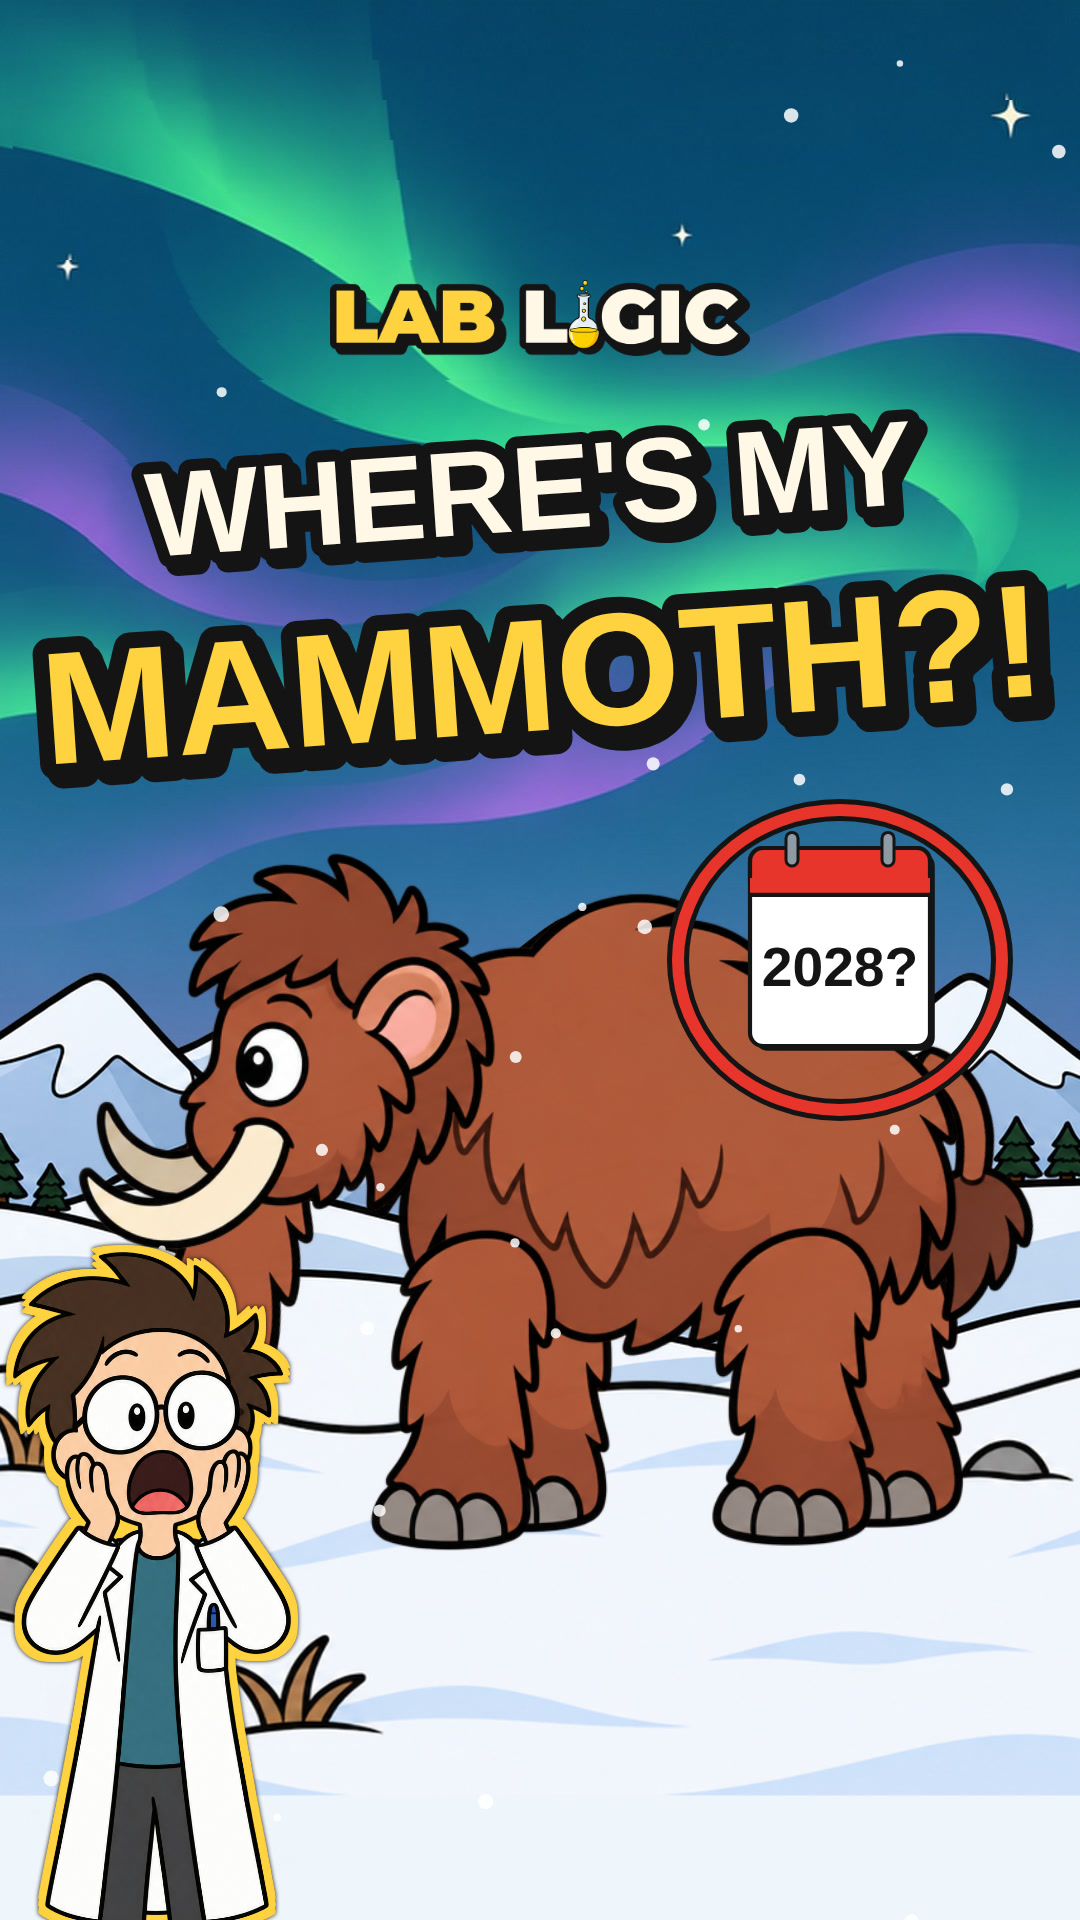
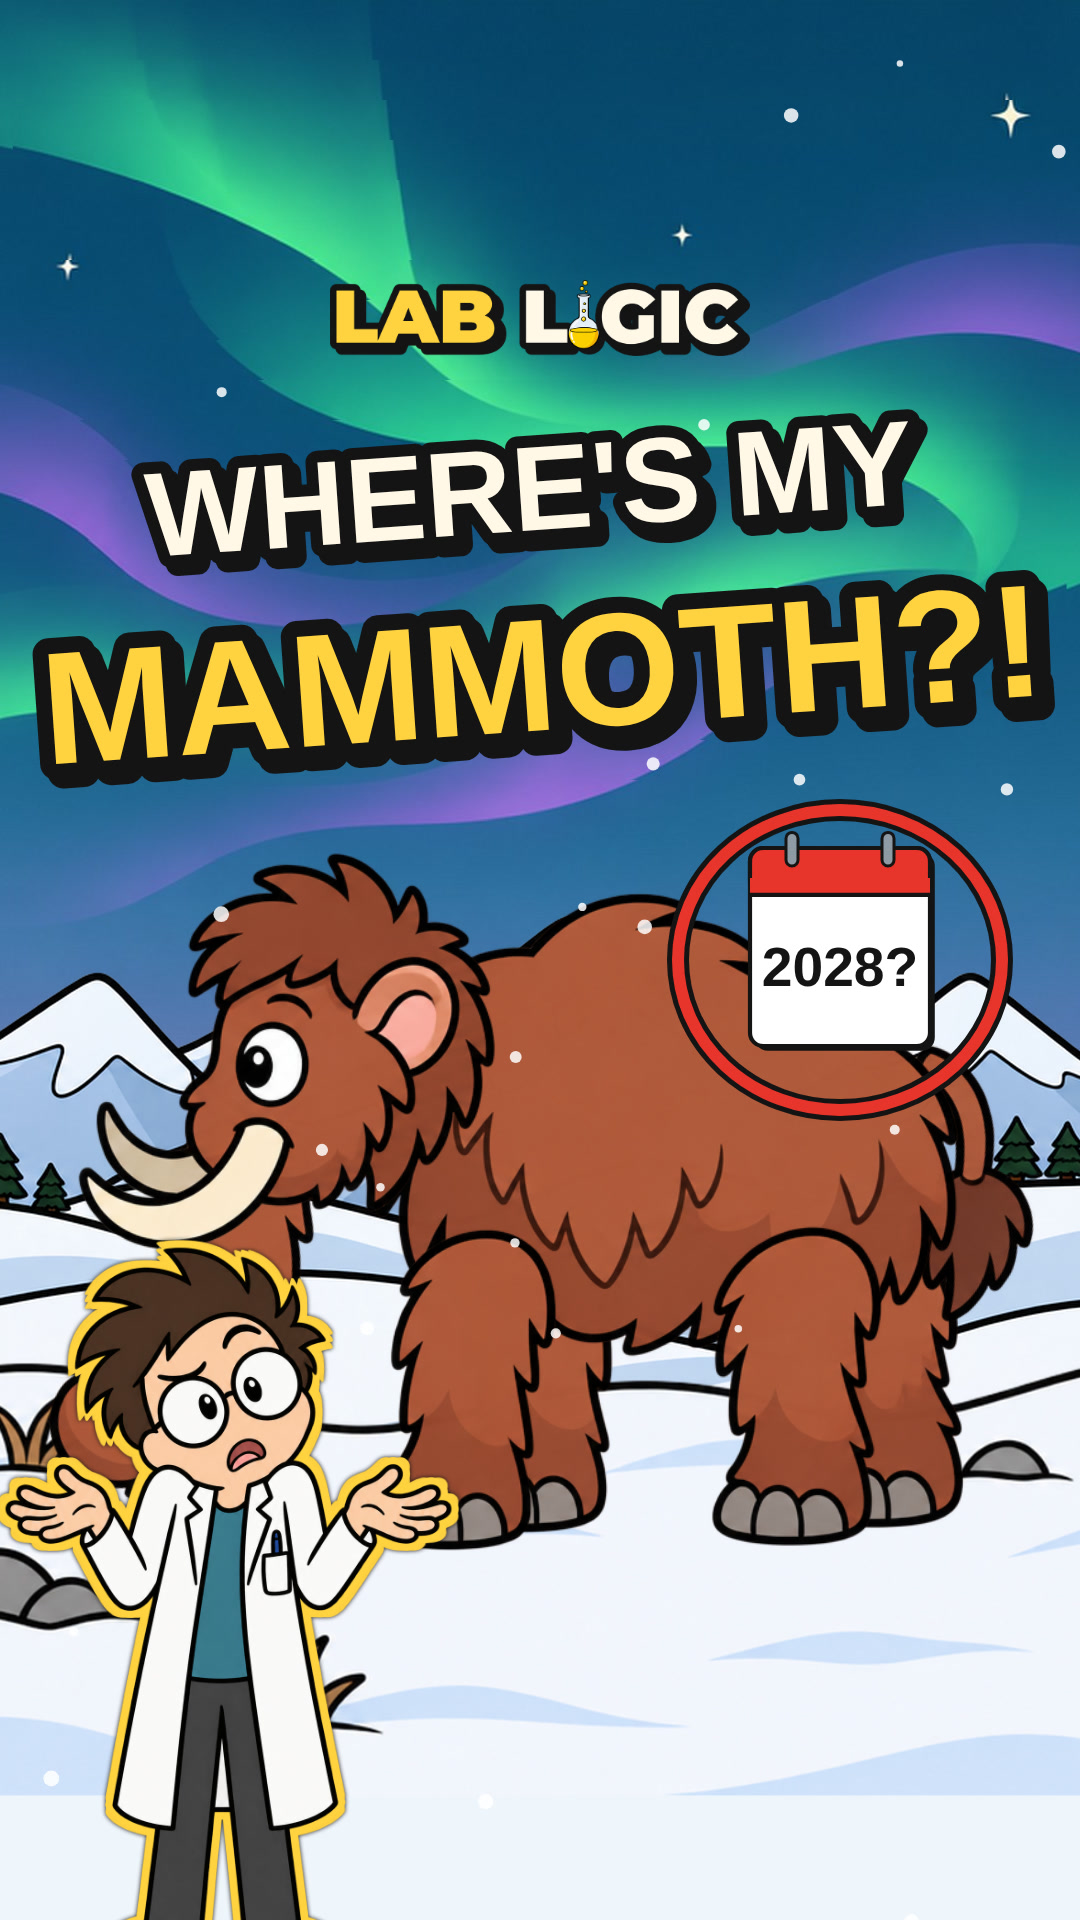
New scientist pose 'shrug' (asking) for the mammoth cover; merge-safe single-pose prep script
Claude-Session: https://claude.ai/code/session_015xk9XDSoC2XGKGSmzAa8PH

Changed region(s): [[0.0, 0.625, 0.4278, 1.0]]

diff --git a/video/src/iceberg/Sci.tsx b/video/src/iceberg/Sci.tsx
@@ -9,7 +9,7 @@ export const skinSprite = (pose: string, skin: Skin = 'default') =>
   skin === 'hawaii' && SPRITES_HAWAII[pose] ? {sp: SPRITES_HAWAII[pose], src: `sci_hawaii/${pose}.png`} : {sp: SPRITES[pose], src: `iceberg/sci/${pose}.png`};
 import {clamp} from './anim';
 
-export type Pose = 'rope' | 'point' | 'think' | 'thumbs' | 'shocked' | 'nervous' | 'bucket' | 'facepalm' | 'throw' | 'present' | 'calc' | 'hot' | 'dizzy' | 'glass' | 'thirsty' | 'cash';
+export type Pose = 'rope' | 'point' | 'think' | 'thumbs' | 'shocked' | 'nervous' | 'bucket' | 'facepalm' | 'throw' | 'present' | 'calc' | 'hot' | 'dizzy' | 'glass' | 'thirsty' | 'cash' | 'shrug';
 
 // The scientist: a cut-out picture per pose. Swaps happen on the narrowest frame of a quick squash
 // (never a cross-fade). x/y = feet in scene coordinates; headR = on-screen head radius.

diff --git a/video/src/mammoth/Main.tsx b/video/src/mammoth/Main.tsx
@@ -264,7 +264,7 @@ export const MammothCover: React.FC = () => (
       <RedCircle x={840} y={960} r={150} />
       <Snow t={1.2} n={30} />
     </svg>
-    <BigSci pose="shocked" x={150} y={1400} headR={105} />
+    <BigSci pose="shrug" x={210} y={1380} headR={100} />
     <svg width={W} height={H} viewBox={`0 0 ${W} ${H}`} style={{position: 'absolute'}}>
       <g transform="rotate(-4 540 640)" data-skip="cover headline">
         <BigText x={540} y={530} text="WHERE'S MY" size={120} />

diff --git a/video/src/iceberg/sprites.ts b/video/src/iceberg/sprites.ts
@@ -175,5 +175,16 @@ export const SPRITES: Record<string, Sprite> = {
     "headR": 179.96437072753906,
     "footX": 507.3,
     "footY": 1588.0
+  },
+  "shrug": {
+    "handX": 981,
+    "handY": 576,
+    "w": 992,
+    "h": 1600,
+    "headX": 456,
+    "headY": 298,
+    "headR": 217.99038696289062,
+    "footX": 485.7,
+    "footY": 1588.0
   }
 };

diff --git a/video/scripts/prep_add_pose.py b/video/scripts/prep_add_pose.py
@@ -1,0 +1,36 @@
+# Add (or replace) ONE scientist pose without touching the others.
+# usage: python3 scripts/prep_add_pose.py <pose> <raw.png>
+# Trims, scales to 1600 px tall, measures head/feet/hand like prep.py, saves public/iceberg/sci/<pose>.png and MERGES
+# the metrics into src/iceberg/sprites.ts (prep.py rewrites the whole file - never use it for a single new pose).
+import sys, json, re, numpy as np, cv2
+from PIL import Image
+ROOT = '/home/user/LAbLogic/video/'
+name, path = sys.argv[1], sys.argv[2]
+im = Image.open(path).convert('RGBA')
+a = np.array(im)[..., 3]
+ys, xs = np.where(a > 20)
+im = im.crop((max(xs.min() - 12, 0), max(ys.min() - 12, 0), min(xs.max() + 13, a.shape[1]), min(ys.max() + 13, a.shape[0])))
+if im.height > 1600:
+    im = im.resize((round(im.width * 1600 / im.height), 1600), Image.LANCZOS)
+a = np.array(im)[..., 3]
+h, w = a.shape
+a8 = (a > 128).astype(np.uint8)
+ff = a8.copy()
+cv2.floodFill(ff, np.zeros((h + 2, w + 2), np.uint8), (0, 0), 2)
+solid = np.where(ff == 2, 0, 1).astype(np.uint8)
+top = solid.copy(); top[int(h * 0.45):] = 0
+dt = cv2.distanceTransform(top, cv2.DIST_L2, 5)
+hy, hx = np.unravel_index(dt.argmax(), dt.shape)
+fy, fx = np.where(a8[int(h * 0.965):] > 0)
+ys2, xs2 = np.where(a > 128)
+i = xs2.argmax()
+m = {'handX': int(xs2[i]), 'handY': int(ys2[i]), 'w': w, 'h': h, 'headX': int(hx), 'headY': int(hy), 'headR': float(dt[hy, hx]),
+     'footX': round(float(fx.mean()) if len(fx) else w / 2, 1), 'footY': round(float(h - 12), 1)}
+im.save(ROOT + f'public/iceberg/sci/{name}.png')
+ts_path = ROOT + 'src/iceberg/sprites.ts'
+ts = open(ts_path).read()
+head, body = ts.split('export const SPRITES: Record<string, Sprite> = ', 1)
+data = json.loads(body.rstrip().rstrip(';'))
+data[name] = m
+open(ts_path, 'w').write(head + 'export const SPRITES: Record<string, Sprite> = ' + json.dumps(data, indent=2) + ';\n')
+print(name, m, 'poses now:', len(data))

diff --git a/.claude/skills/lab-logic/references/higgsfield.md b/.claude/skills/lab-logic/references/higgsfield.md
@@ -44,6 +44,7 @@ References for poses: the hero job + the avatar media. Prompt = framing + expres
 | calc | holding a calculator, long receipt piling up at his feet |
 | hot | red cheeks, sweat, fanning himself |
 | dizzy | spiral glasses, bump on head, tongue out, hand on bump (from old woodpecker thumbnail) |
+| shrug | facing viewer, shoulders up, both palms up, eyebrow raised, puzzled "huh?" - the "asking" pose (job `7d9aa304-13b2-4a41-ad06-59cf133e9c4b`, 2k medium, 2026-11-24) |
 
 ## Objects
 Most objects are drawn in code (better control and a perfect match with the ink-outline style). Use Higgsfield
@@ -105,3 +106,6 @@ Non-character cut-outs: trim + resize by hand and measure anchor points (e.g. be
   fix one part with a cheap edit of the parts sheet ("redraw ONLY the head piece … REMOVE … ADD …", 1k medium 0.5)
   and match its scale to the old part by the size of its main colour area.
 - Always render the rig test Still (`MammothRigTest`) and zoom into every joint before the full render.
+
+- Adding ONE new default pose: `python3 video/scripts/prep_add_pose.py <pose> <raw.png>` (merges into sprites.ts; the
+  old prep.py rewrites the whole file and would drop all other poses), then add the name to `Pose` in Sci.tsx.

diff --git a/.claude/skills/lab-logic/references/thumbnails.md b/.claude/skills/lab-logic/references/thumbnails.md
@@ -72,3 +72,8 @@ EVERY DAY?!" (nervous, price tags $1 -> $128).
 - (Old episodes only) Covers live in `video/src/lightning/Covers.tsx` (A/B/C Stills, A re-used as frame 0). To swap frame 0 after the
   final render: render `--frames=0-<hook frame>` muted at the same resolution as the video, concat with the old video from the next frame,
   copy the audio, check the frame count.
+
+## Vary the scientist's pose on covers (user feedback 2026-11-24)
+- "shocked" was used on almost every cover - the user noticed the repetition. Match the pose to the headline:
+  question headlines ("WHERE'S MY…?!", "…?!") -> `shrug`; warnings -> `nervous`/`facepalm`; "it works!" -> `thumbs`;
+  explaining -> `point`/`present`; only real shock -> `shocked`. Don't reuse the previous episode's cover pose.
